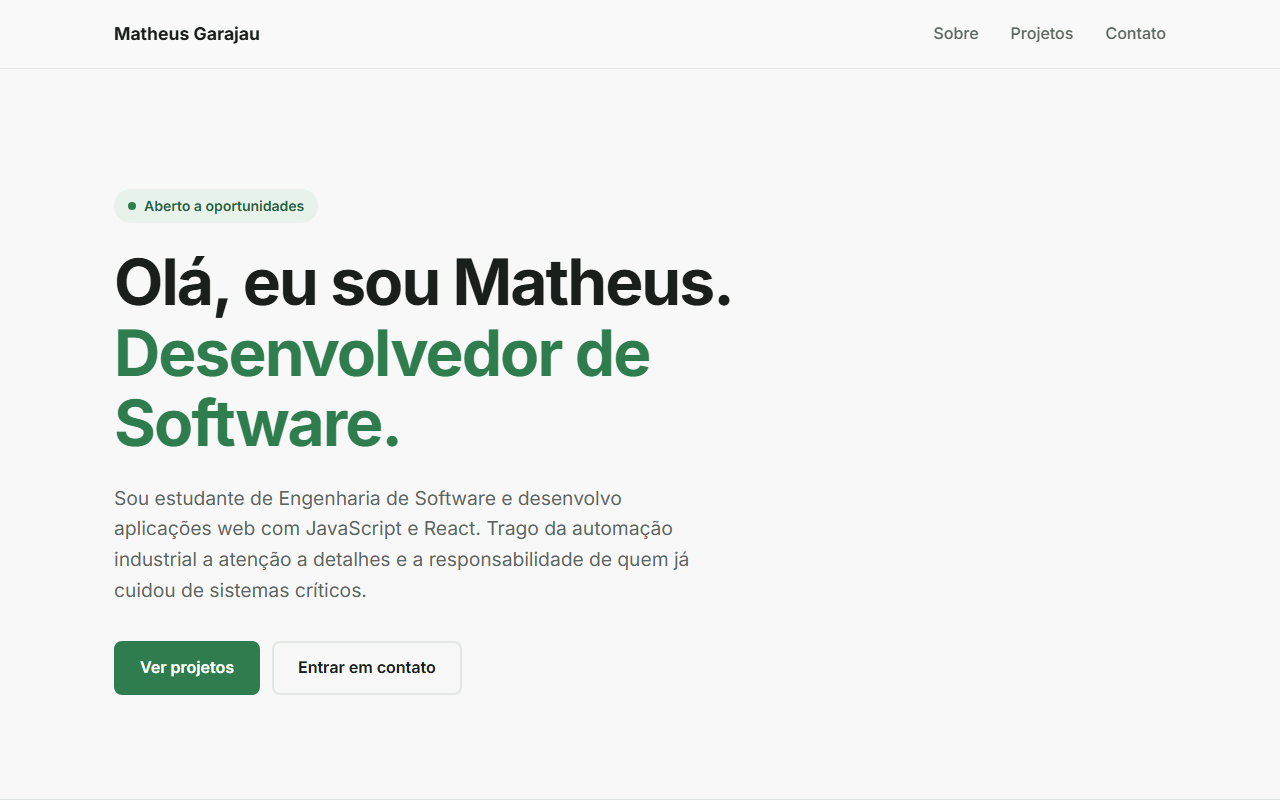
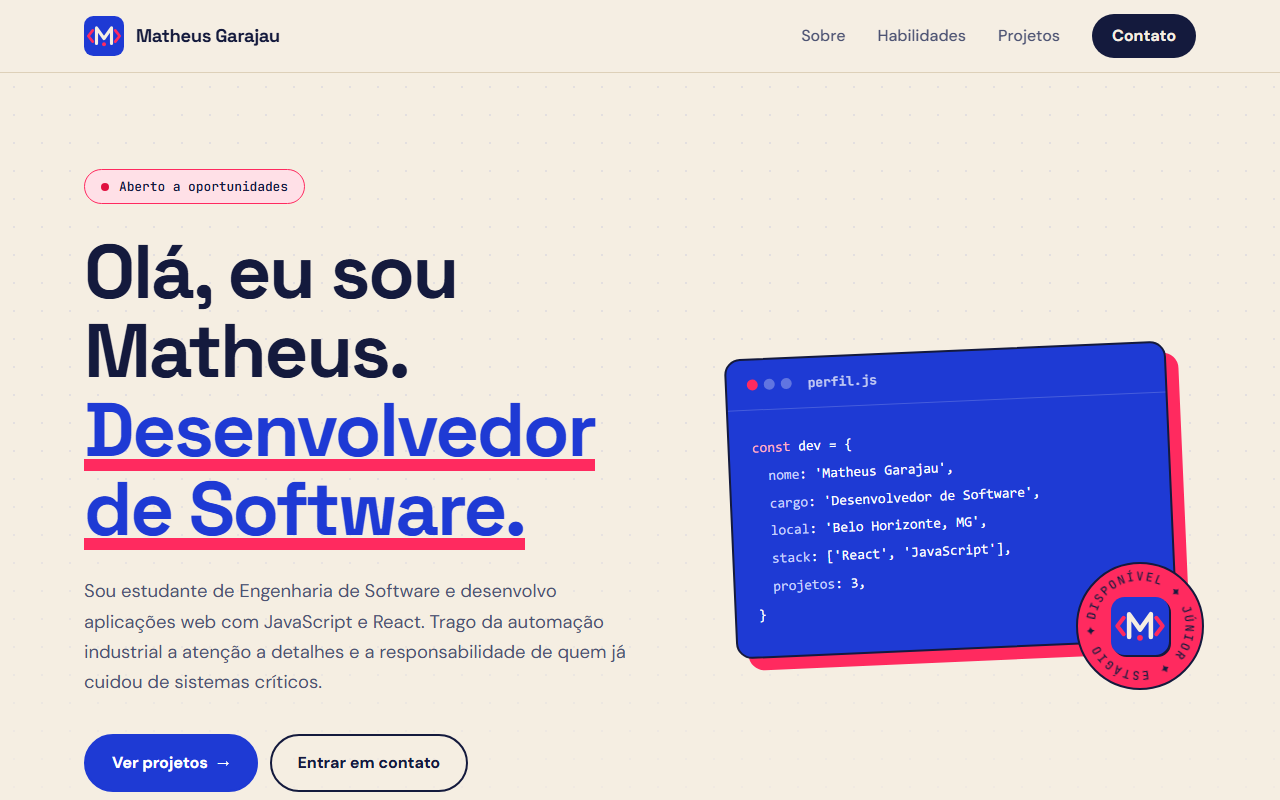
atualizei o print e o readme com o novo visual do portfólio

diff --git a/README.md b/README.md
@@ -8,9 +8,10 @@ Meu portfólio pessoal, desenvolvido do zero com **React** e **Vite**, reunindo 
 
 ## ✨ Seções
 
-- **Início**: apresentação e chamada para os projetos
-- **Sobre**: minha história, tecnologias e linha do tempo de formação e experiência
-- **Projetos**: cards com print, descrição, tecnologias e links para ver online e ver o código
+- **Início**: apresentação, cartão de perfil em formato de código e faixa animada com as tecnologias
+- **Sobre**: minha história e linha do tempo de formação e experiência
+- **Habilidades**: tecnologias organizadas em grupos (front-end, back-end e ferramentas)
+- **Projetos**: cada projeto com print, descrição, tecnologias e links para ver online e ver o código
 - **Contato**: LinkedIn, e-mail e GitHub
 
 ## 🧠 O que pratiquei
@@ -21,7 +22,8 @@ Meu portfólio pessoal, desenvolvido do zero com **React** e **Vite**, reunindo 
 - **Estado** com `useState` no menu do celular
 - **Dados separados do visual**: textos e projetos ficam em `src/data/`, sem precisar mexer nos componentes
 - **Layout responsivo** com CSS Grid (`auto-fill` + `minmax`), Flexbox e Media Queries
-- **Variáveis CSS** para manter cores e espaçamentos consistentes
+- **Variáveis CSS** para manter cores e espaçamentos consistentes (azul, bege e rosa)
+- **Logo em SVG** como componente React, reaproveitada no cabeçalho, no topo e no ícone da aba
 - **Acessibilidade**: HTML semântico, `aria-label`, foco visível para navegação pelo teclado e respeito a `prefers-reduced-motion`
 
 ## 🛠 Tecnologias
@@ -35,9 +37,10 @@ Meu portfólio pessoal, desenvolvido do zero com **React** e **Vite**, reunindo 
 
 ```
 src/
-├── components/     # Header, Hero, Sobre, Projetos, CardProjeto, Contato e Rodape
+├── components/     # Header, Logo, Hero, FaixaTecnologias, Sobre, Habilidades,
+│                   # Projetos, CardProjeto, Contato e Rodape
 ├── data/
-│   ├── perfil.js   # nome, resumo, links, trajetória e tecnologias
+│   ├── perfil.js   # nome, resumo, links, trajetória, tecnologias e habilidades
 │   └── projetos.js # lista de projetos exibidos
 ├── App.jsx         # monta a página juntando os componentes
 ├── index.css       # estilos globais e variáveis de cor
@@ -50,7 +53,7 @@ public/
 
 - **Mudar textos ou links:** edite `src/data/perfil.js`
 - **Adicionar um projeto:** coloque o print em `public/projetos/` e acrescente um objeto em `src/data/projetos.js`
-- **Mudar a cor do site:** altere `--cor-destaque` em `src/index.css`
+- **Mudar as cores do site:** altere `--cor-azul`, `--cor-rosa` e `--cor-fundo` em `src/index.css`
 
 ## ▶ Como rodar localmente
 
